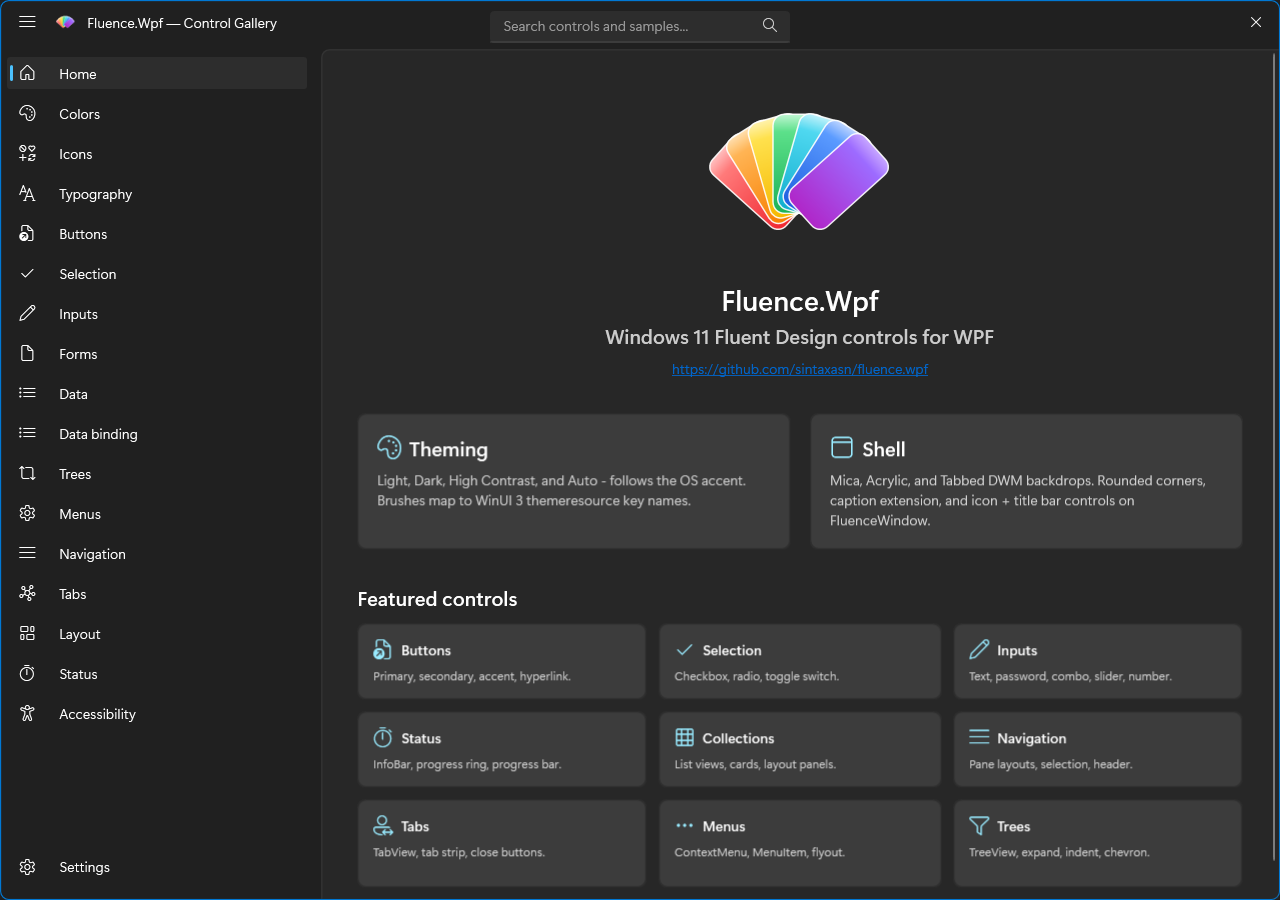
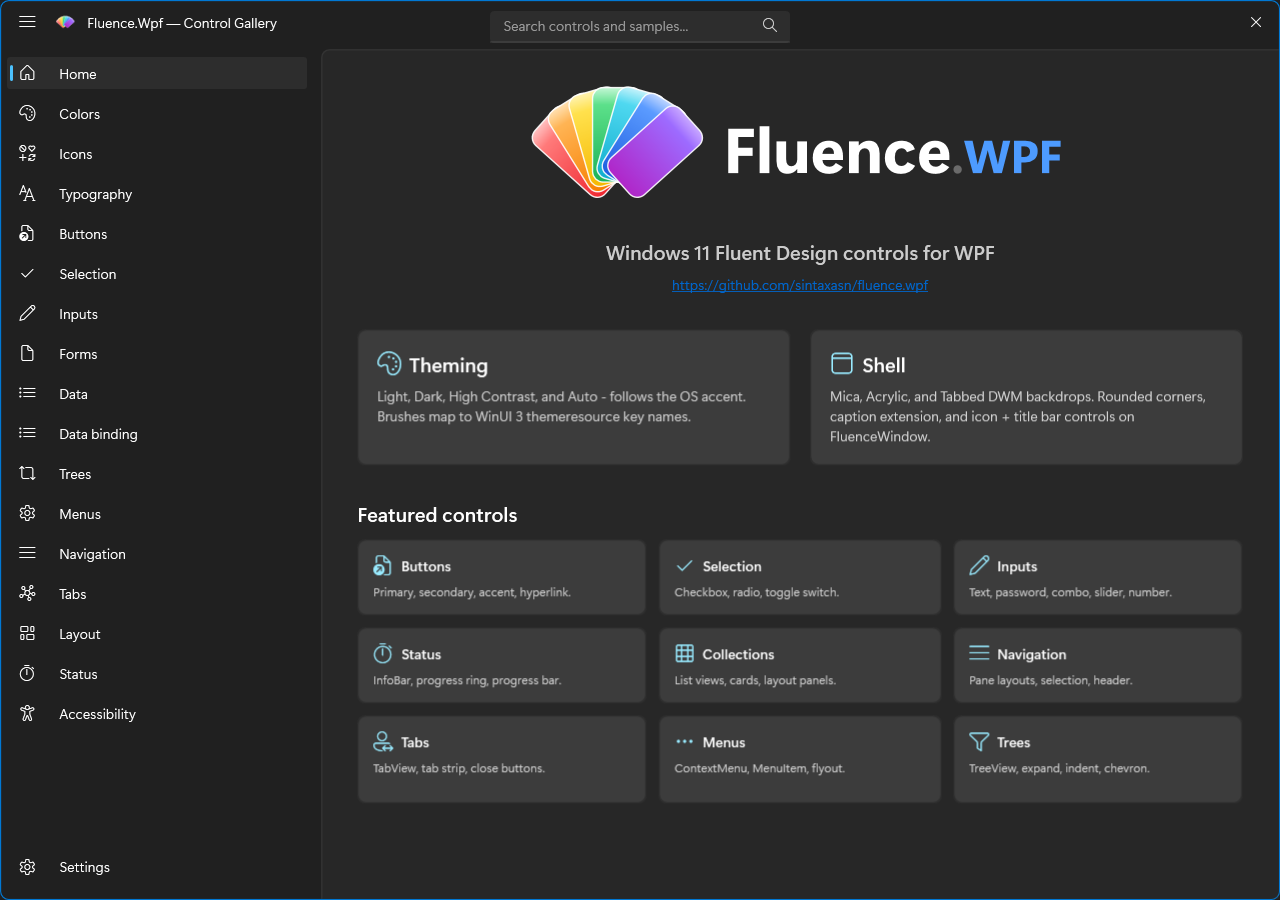
Home page hero shows the theme-paired Fluence header lockup

diff --git a/Fluence.Wpf.Demo/Pages/GalleryHomePage.xaml b/Fluence.Wpf.Demo/Pages/GalleryHomePage.xaml
@@ -12,10 +12,12 @@
     <!--
         Home page structure. This page does NOT use the DemoSampleControl slot pattern.
         Instead it contains:
-        * A hero brand glyph (BrandHeroImage) that renders the Fluence brand vector
-        (FluenceIconBrandDrawingImage, merged into application resources by the library's
-        Generic.xaml). The mark carries no plate, so it reads cleanly on every theme and
-        needs no per-theme image swap.
+        * A theme-paired hero lockup (BrandHeroImage): FluenceHeaderLightDrawingImage on
+        light themes and FluenceHeaderDarkDrawingImage on dark themes (both merged into
+        application resources by the library's Generic.xaml). The lockup bakes the
+        wordmark into the artwork, so the code-behind swaps the resource key on
+        ApplicationThemeManager.Changed, and high contrast picks the variant whose
+        wordmark reads against the live system window color.
         * Two action Card tiles (Theming, Shell) that route to the Settings page via
         Card_Click, which calls host.NavigateTo(tag).
         * A UniformGrid of nine featured-control Card tiles; each Card carries a Tag
@@ -29,19 +31,12 @@
             <StackPanel Margin="0,8,0,28" HorizontalAlignment="Center">
                 <Image
                     x:Name="BrandHeroImage"
-                    Width="180"
-                    Height="180"
+                    Height="140"
                     HorizontalAlignment="Center"
                     RenderOptions.BitmapScalingMode="HighQuality"
-                    Source="{DynamicResource FluenceIconBrandDrawingImage}" />
+                    Source="{DynamicResource FluenceHeaderLightDrawingImage}" />
                 <TextBlock
-                    Margin="0,20,0,0"
-                    HorizontalAlignment="Center"
-                    Foreground="{DynamicResource TextFillColorPrimaryBrush}"
-                    Style="{StaticResource TitleTextBlockStyle}"
-                    Text="Fluence.Wpf" />
-                <TextBlock
-                    Margin="0,4,0,0"
+                    Margin="0,16,0,0"
                     HorizontalAlignment="Center"
                     Foreground="{DynamicResource TextFillColorSecondaryBrush}"
                     Style="{StaticResource SubtitleTextBlockStyle}"

diff --git a/Fluence.Wpf.Tests/DemoMainWindowTests.cs b/Fluence.Wpf.Tests/DemoMainWindowTests.cs
@@ -143,7 +143,7 @@ namespace Fluence.Wpf.Tests
         }
 
         [TestMethod]
-        public void GalleryHomePage_HeroUsesBrandVectorIconAcrossThemes()
+        public void GalleryHomePage_HeroSwapsHeaderLockupWithTheme()
         {
             RunOnSta(static delegate
             {
@@ -155,29 +155,35 @@ namespace Fluence.Wpf.Tests
                     Image? image = FindByName<Image>(page, "BrandHeroImage");
                     Assert.IsNotNull(image, "Home page should expose the brand hero image.");
 
-                    // The hero renders the resolution-independent brand vector, which carries no
-                    // plate and reads on every theme, so it must resolve to the same DrawingImage
-                    // the library merges into application resources - not a per-theme PNG.
-                    DrawingImage? expected = Application.Current.TryFindResource("FluenceIconBrandDrawingImage") as DrawingImage;
-                    Assert.IsNotNull(expected, "The brand vector should resolve from merged application resources.");
-                    Assert.IsInstanceOfType(image.Source, typeof(DrawingImage), "The hero should render the brand vector DrawingImage.");
-                    Assert.AreSame(expected, image.Source, "The hero should bind the merged brand DrawingImage resource.");
+                    DrawingImage? light = Application.Current.TryFindResource("FluenceHeaderLightDrawingImage") as DrawingImage;
+                    DrawingImage? dark = Application.Current.TryFindResource("FluenceHeaderDarkDrawingImage") as DrawingImage;
+                    Assert.IsNotNull(light, "The light header lockup should resolve from merged application resources.");
+                    Assert.IsNotNull(dark, "The dark header lockup should resolve from merged application resources.");
 
-                    // A theme cycle must not swap the hero image: the brand mark is theme-independent.
+                    // The hero shows the lockup drawn for the active theme and swaps on
+                    // theme changes via ApplicationThemeManager.Changed.
+                    Assert.AreSame(light, image.Source, "A light theme should show the light header lockup.");
+
                     ApplicationThemeManager.Apply(ApplicationTheme.Dark, BackdropType.None, updateAccent: true);
                     Drain(window.Dispatcher);
                     window.UpdateLayout();
                     Drain(window.Dispatcher);
-                    Assert.AreSame(expected, image.Source, "The brand hero should stay the same vector under the dark theme.");
+                    Assert.AreSame(dark, image.Source, "A dark theme should show the dark header lockup.");
 
+                    // High contrast has no fixed polarity, so the page picks whichever
+                    // variant reads against the live system window color.
                     ApplicationThemeManager.Apply(ApplicationTheme.HighContrast, BackdropType.None, updateAccent: true);
                     Drain(window.Dispatcher);
                     window.UpdateLayout();
                     Drain(window.Dispatcher);
-                    Assert.AreSame(expected, image.Source, "The brand hero should stay the same vector under high contrast.");
+                    Assert.IsTrue(ReferenceEquals(image.Source, light) || ReferenceEquals(image.Source, dark),
+                        "High contrast should show one of the two header lockups.");
 
                     ApplicationThemeManager.Apply(ApplicationTheme.Light, BackdropType.None, updateAccent: true);
                     Drain(window.Dispatcher);
+                    window.UpdateLayout();
+                    Drain(window.Dispatcher);
+                    Assert.AreSame(light, image.Source, "Returning to the light theme should restore the light header lockup.");
                 }
                 finally
                 {
@@ -187,11 +193,11 @@ namespace Fluence.Wpf.Tests
         }
 
         [TestMethod]
-        public void GalleryHomePage_UsesBrandVectorHeroAndGitHubLink()
+        public void GalleryHomePage_UsesHeaderLockupHeroAndGitHubLink()
         {
             string homePage = ReadRepositoryFile("Fluence.Wpf.Demo", "Pages", "GalleryHomePage.xaml");
-            StringAssert.Contains(homePage, "FluenceIconBrandDrawingImage", StringComparison.Ordinal,
-                "The home hero should bind the brand vector icon.");
+            StringAssert.Contains(homePage, "FluenceHeaderLightDrawingImage", StringComparison.Ordinal,
+                "The home hero should default to the light header lockup.");
             StringAssert.Contains(homePage, "https://github.com/sintaxasn/fluence.wpf", StringComparison.Ordinal);
         }
 

diff --git a/Fluence.Wpf.Demo/Pages/GalleryHomePage.xaml.cs b/Fluence.Wpf.Demo/Pages/GalleryHomePage.xaml.cs
@@ -39,6 +39,55 @@ namespace Fluence.Wpf.Demo.Pages
         public GalleryHomePage()
         {
             InitializeComponent();
+
+            // The theme manager events are static, so scope the subscription to
+            // Loaded/Unloaded (the FluenceWindow lifetime pattern) instead of the
+            // constructor, keeping abandoned page instances collectable.
+            Loaded += OnLoaded;
+            Unloaded += OnUnloaded;
+        }
+
+        private void OnLoaded(object sender, RoutedEventArgs e)
+        {
+            ApplicationThemeManager.Changed += OnThemeChanged;
+            UpdateHeroImage();
+        }
+
+        private void OnUnloaded(object sender, RoutedEventArgs e)
+        {
+            ApplicationThemeManager.Changed -= OnThemeChanged;
+        }
+
+        private void OnThemeChanged(object? sender, ThemeChangedEventArgs e)
+        {
+            UpdateHeroImage();
+        }
+
+        // Swaps the hero lockup to the variant drawn for the active theme: the light
+        // artwork (near-black wordmark) on light themes, the dark artwork (white
+        // wordmark) on dark themes. SetResourceReference keeps the swap dynamic so a
+        // later theme dictionary replacement re-resolves without another lookup here.
+        private void UpdateHeroImage()
+        {
+            BrandHeroImage.SetResourceReference(
+                System.Windows.Controls.Image.SourceProperty,
+                UseDarkHeader() ? "FluenceHeaderDarkDrawingImage" : "FluenceHeaderLightDrawingImage");
+        }
+
+        // High contrast has no fixed polarity (Aquatic is white-on-black, Desert is
+        // black-on-white), so under high contrast the variant follows the live system
+        // window luminance. The plain themes map directly.
+        private static bool UseDarkHeader()
+        {
+            ApplicationTheme theme = ApplicationThemeManager.CurrentTheme;
+            if (theme is ApplicationTheme.HighContrast)
+            {
+                System.Windows.Media.Color window = SystemColors.WindowColor;
+                double luminance = (0.299 * window.R) + (0.587 * window.G) + (0.114 * window.B);
+                return luminance < 128.0;
+            }
+
+            return theme is ApplicationTheme.Dark;
         }
 
         // Handles a click on any featured-control or action Card tile; reads the Card's

diff --git a/AGENTS.md b/AGENTS.md
@@ -322,7 +322,7 @@ flowchart TD
 - `MainWindow` is a `FluenceWindow` with `ExtendsContentIntoTitleBar="False"` in source, `SystemBackdropType="Mica"`, and a custom `TitleBar` slot hosting the app icon, title, a `TextBox` **search** bound to filter menu items, and caption buttons.
 - `NavigationView` named `DemoNav`: default `PaneDisplayMode="Left"` in source and opens expanded with `IsPaneOpen="True"` to showcase the full pane.
 - Menu items carry `Tag` strings; `MainWindow.NavigateTo(string tag)` does a switch to the matching `Gallery*Page` inside the content frame. Navigation remains tag-driven, with a lightweight visited-page stack only for the shell Back button.
-- `GalleryHomePage` shows a theme-aware hero banner (`Fluence_Lockup_SideBySide_Dark.png` on a light theme, `Fluence_Lockup_SideBySide_Light.png` on a dark theme) and large **clickable `Card`** tiles that route through the same `NavigateTo` helper. Window controls and app-level theme/navigation/backdrop options live on the Settings page.
+- `GalleryHomePage` shows a theme-aware hero lockup (the `FluenceHeaderLightDrawingImage` vector on light themes, `FluenceHeaderDarkDrawingImage` on dark themes, swapped in code-behind on `ApplicationThemeManager.Changed`; high contrast picks by system window luminance) and large **clickable `Card`** tiles that route through the same `NavigateTo` helper. Window controls and app-level theme/navigation/backdrop options live on the Settings page.
 - 17 navigation-catalog pages: Home, Colors, Icons, Typography, Buttons, Selection, Inputs, Forms, Data, Data binding, Trees, Menus, Navigation, Tabs, Layout, Status, and Accessibility. Settings is a `NavigationView.FooterMenuItems` entry (a real, selectable footer nav item with the shared selection indicator), not a `DemoNavigationCatalog` item; footer navigation is routed through `DemoNav.ItemInvoked`.
 - Run: `dotnet run --project Fluence.Wpf.Demo/Fluence.Wpf.Demo.csproj -f net472` or `dotnet run --project Fluence.Wpf.Demo/Fluence.Wpf.Demo.csproj -f net10.0-windows10.0.26100.0`.
 

diff --git a/CHANGELOG.md b/CHANGELOG.md
@@ -12,6 +12,7 @@ The format is based on [Keep a Changelog](https://keepachangelog.com/en/1.1.0/),
 
 ### Changed
 
+- Demo: the home page hero now shows the Fluence header lockup drawn for the active theme (`FluenceHeaderLightDrawingImage` on light themes, `FluenceHeaderDarkDrawingImage` on dark, chosen by system window luminance under high contrast), replacing the square brand mark and separate title text. The unused lockup PNGs are removed from the demo resources.
 - ScrollBar: hover expand/contract now runs 167 ms and the track fade 83 ms, matching WinUI's `ScrollBarExpandDuration`, `ScrollBarContractDuration`, and `ScrollBarOpacityChangeDuration`; previously 120 ms and 150 ms.
 - `ListView`: item removal eases out like the insert path, so a deleted item no longer lingers at full opacity before snapping away.
 - `ComboBox`: the dropdown opens with the standard reveal, an 8 px slide from the control edge (upward-opening dropdowns slide up) plus fade over 167 ms on the `0.8,0,0,1` spline, instead of unfolding from zero height. The reveal runs from code and honors the reduced-motion setting.
